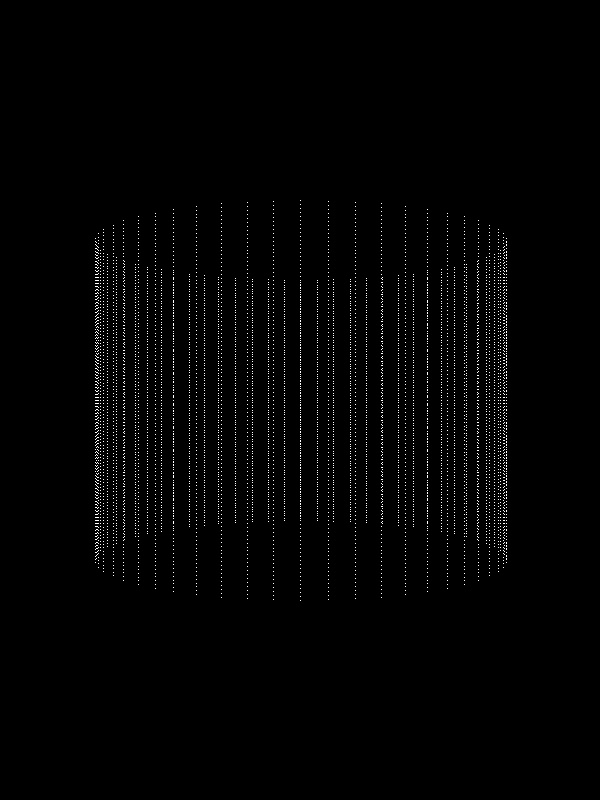
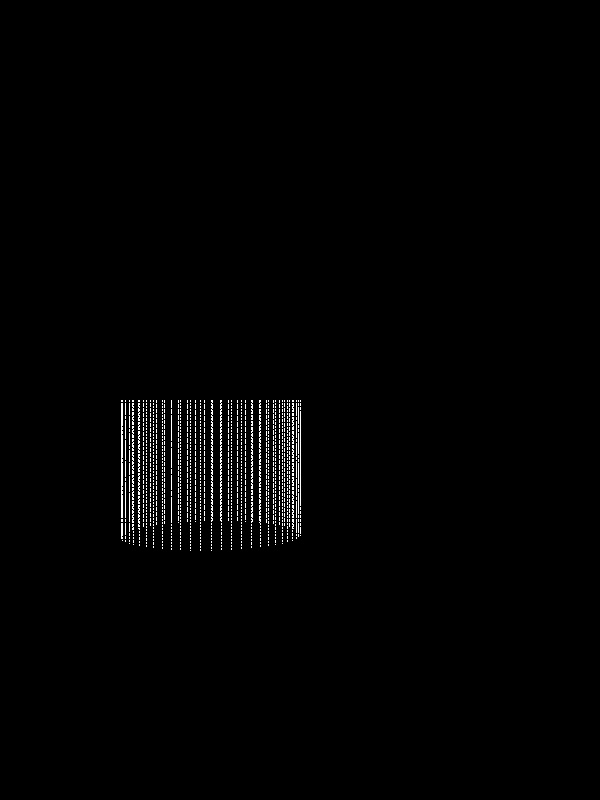
camera translation and path

Changed region(s): [[0.15, 0.3125, 0.51, 0.6875], [0.81, 0.5, 0.84, 0.6562], [0.81, 0.3438, 0.84, 0.4688]]

diff --git a/main.py b/main.py
@@ -3,33 +3,43 @@ import camera
 import numpy as np
 import cv2
 
+def ImgsFromCamPath(cam,axis,angle,times,width,height):
+	offset_u = width/2
+	offset_v = height/2
+	for i in range(times):
+		cam.translateCameraWithAxisAngle(axis,angle)
+		cam.rotateCamera(axis,-angle)
+		x_cord, y_cord = cam.getProjectedPts(height,width)
+
+		blank_image = np.zeros((width,height,3),np.uint8)
+
+		for x in range(len(points)):
+			u_fp = x_cord[x]
+			v_fp = y_cord[x]
+			#move the projected image to the center of image
+			if (u_fp+offset_u) >= width or (v_fp+offset_v) >=height or (u_fp+offset_u)<0 or (v_fp+offset_v)<0:
+				continue
+			rgb = rgb_values[x]
+			blank_image[u_fp+offset_u][v_fp+offset_v] = rgb
+
+		#cv2.imwrite("test1.jpg",blank_image)
+		cv2.imshow("test.jpg",blank_image)
+		cv2.waitKey(100)
+	cv2.destroyAllWindows()
+
+
 file = fm.FileManager("cylinderRGB.dat")
 points,rgb_values = file.importPointsWithRGB()
 
-camera_pos = [0,500,100,100] #(0,0,-200) as initial position
-I = [[1,0,0],[0,1,0],[0,0,1]]
-camera_ori = np.matrix(I)
-
 width = 800
 height = 600
-
-offset_u = width/2
-offset_v = height/2
-cam = camera.Camera(points,camera_pos,camera_ori,1)
 y_axis = [0,1,0]
 x_axis = [1,0,0]
-cam.rotateCamera(y_axis,-90)
-x_cord, y_cord = cam.getProjectedPts(height,width)
 
-blank_image = np.zeros((width,height,3),np.uint8)
+#initial camera
+camera_pos = [0,0,0,1000] #(500,100,100) as initial position
+I = [[1,0,0],[0,1,0],[0,0,1]]
+camera_ori = np.matrix(I)
+cam = camera.Camera(points,camera_pos,camera_ori,1)
 
-for x in range(len(points)):
-	u_fp = x_cord[x]
-	v_fp = y_cord[x]
-	#move the projected image to the center of image
-	if (u_fp+offset_u) >= width or (v_fp+offset_v) >=height or (u_fp+offset_u)<0 or (v_fp+offset_v)<0:
-		continue
-	rgb = rgb_values[x]
-	blank_image[u_fp+offset_u][v_fp+offset_v] = rgb
-
-cv2.imwrite("test1.jpg",blank_image)
+ImgsFromCamPath(cam,y_axis,10,18,width,height)

diff --git a/camera.py b/camera.py
@@ -14,12 +14,16 @@ class Camera:
 	def translateCamera(self,translateMat):
 	 	self.camera_pos = self.camera_pos + translateMat
 
+    def translateCameraWithAxisAngle(self,axis,angle):
+        angle = angle*1.0/180 * np.pi
+        q = self.getQuternion(axis,angle)
+        self.camera_pos = self.quatmult(self.quatmult(q,self.camera_pos), self.conjugate(q))
+
     def rotateCamera(self,axis,angle):
    		theta = angle*1.0/180*pi
    		quter = self.getQuternion(axis,theta)
    		R = self.quat2rot(quter)
    		self.ori_mat = np.dot(R,self.ori_mat)
- 	
     def quatmult(self,q1, q2):
         #used to rotate the camera's initial position
         result = [0, 0, 0, 0]
